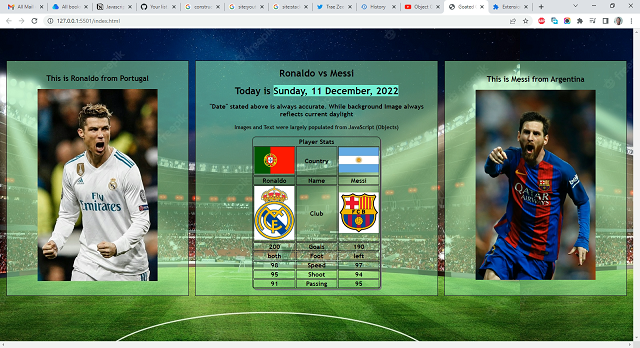
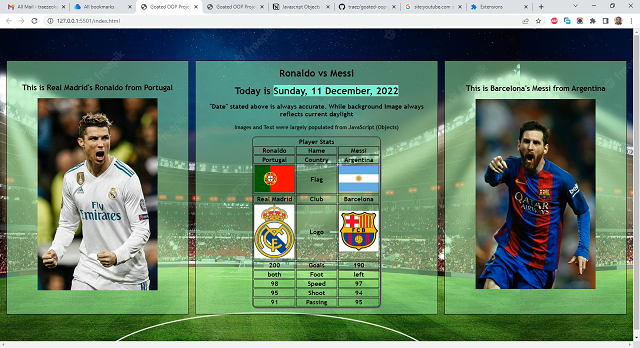
code major refactor

diff --git a/script.js b/script.js
@@ -1,40 +1,73 @@
 (function(){
 
-//Ronaldo object
-  let player = {
-  name: "Ronaldo",
-  playerImage: "images/ronaldo.jpg",
-  countryFlag: "images/portugal.png",
-  club: "images/realmadrid.png",
-  stadiumDay: "images/stadiumday.jpg",
-  stadiumNight: "images/stadiumnight.jpg",
-  goals: 200,
-  foot: "both",
-  speed: 98,
-  shoot: 95,
-  passing: 91,
-  sayHello() {
-    return `This is ${this.name} from Portugal`
+//Player Class
+  class Player {
+    constructor(pic, name, country, flag, club, logo, goals, foot, speed, shoot, passing) {
+      this.pic = pic;
+      this.name = name;
+      this.country = country;
+      this.flag = flag;
+      this.club = club;
+      this.logo = logo;
+      this.goals = goals;
+      this.foot = foot;
+      this.speed = speed;
+      this.shoot = shoot;
+      this.passing = passing;
+    }
+    sayHello() {
+      return `This is ${this.club}'s ${this.name} from ${this.country}`
+    }
   }
- }
 
- //Messi object
- let messi = {
-  name: "Messi",
-  playerImage: "images/messi.jpg",
-  countryFlag: "images/argentina.jpg",
-  club: "images/barcelonafc.png",
-  goals: 190,
-  foot: "left",
-  speed: 97,
-  shoot: 94,
-  passing: 95,
-  sayHello() {
-    return `This is ${this.name} from Argentina`
+//Ronaldo instance
+  let ronaldo = new Player("images/ronaldo.jpg", "Ronaldo", "Portugal", "images/portugal.png", "Real Madrid", "images/realmadrid.png", 200, "both", 98, 95, 91);
+
+//Messi instance
+let messi = new Player("images/messi.jpg", "Messi", "Argentina", "images/argentina.jpg", "Barcelona", "images/barcelonafc.png", 190, "left", 97, 94, 95);
+
+ //Ronaldo element population 
+ document.querySelector(".pic-left").setAttribute("src", ronaldo.pic);
+ document.querySelector(".name-left").textContent =  ronaldo.name;
+ document.querySelector(".country-left").textContent =  ronaldo.country;
+ document.querySelector(".flag-left").setAttribute("src", ronaldo.flag);
+ document.querySelector(".club-left").textContent =  ronaldo.club;
+ document.querySelector(".logo-left").setAttribute("src", ronaldo.logo);
+ document.querySelector(".goals-left").textContent =  ronaldo.goals;
+ document.querySelector(".foot-left").textContent =  ronaldo.foot;
+ document.querySelector(".speed-left").textContent =  ronaldo.speed;
+ document.querySelector(".shoot-left").textContent =  ronaldo.shoot;
+ document.querySelector(".passing-left").textContent =  ronaldo.passing;
+ document.querySelector(".hello-left").textContent =  ronaldo.sayHello();
+  
+//Messi element population 
+document.querySelector(".pic-right").setAttribute("src", messi.pic);
+document.querySelector(".name-right").textContent =  messi.name;
+document.querySelector(".country-right").textContent =  messi.country;
+document.querySelector(".flag-right").setAttribute("src", messi.flag);
+document.querySelector(".club-right").textContent =  messi.club;
+document.querySelector(".logo-right").setAttribute("src", messi.logo);
+document.querySelector(".goals-right").textContent =  messi.goals;
+document.querySelector(".foot-right").textContent =  messi.foot;
+document.querySelector(".speed-right").textContent =  messi.speed;
+document.querySelector(".shoot-right").textContent =  messi.shoot;
+document.querySelector(".passing-right").textContent =  messi.passing;
+document.querySelector(".hello-right").textContent =  messi.sayHello();
+ 
+//H1 element population
+document.querySelector("h1").textContent =  `${ronaldo.name} vs ${messi.name}`;
+
+//Stadium Class
+  class Stadium {
+    constructor(day, night){
+      this.day = day;
+      this.night = night;
+    }
   }
- }
 
- //Time and date variables
+  let elClassico = new Stadium("images/stadiumday.jpg", "images/stadiumnight.jpg");
+
+  //Time and date variables
  let day = new Date().getDate();
  let weekday = ['Sunday', 'Monday', 'Tuesday', 'Wednesday', 'Thursday', 'Friday', 'Saturday'][new Date().getDay()];
  let month = ['January',"February","March", "April", "May", "June", "July", "August", "September", "October", "November", "December"][new Date().getMonth()];
@@ -42,34 +75,11 @@
  let hour = new Date().getHours();
  document.querySelector(".calendar").textContent =  `${weekday}, ${day} ${month}, ${year}`;
 
- //background color decider
- if (hour > 5 && hour < 19) {
-  document.querySelector("body").style.backgroundImage = `url(${player.stadiumDay})`;
- } else {
-  document.querySelector("body").style.backgroundImage = `url(${player.stadiumNight})`;
- }
+  //background color decider
+  if (hour > 5 && hour < 19) {
+    document.querySelector("body").style.backgroundImage = `url(${elClassico.day})`;
+   } else {
+    document.querySelector("body").style.backgroundImage = `url(${elClassico.night})`;
+   }
 
- //element population Ronaldo
- document.querySelector(".hello-left").textContent =  player.sayHello();
- document.querySelector(".name-left").textContent =  player.name;
- document.querySelector(".pic-left").setAttribute("src", player.playerImage);
- document.querySelector(".country-left").setAttribute("src", player.countryFlag);
- document.querySelector(".club-left").setAttribute("src", player.club);
- document.querySelector(".goals-left").textContent =  player.goals;
- document.querySelector(".foot-left").textContent =  player.foot;
- document.querySelector(".speed-left").textContent =  player.speed;
- document.querySelector(".shoot-left").textContent =  player.shoot;
- document.querySelector(".passing-left").textContent =  player.passing;
-
-  //element population Messi
- document.querySelector(".hello-right").textContent =  messi.sayHello();
- document.querySelector(".name-right").textContent =  messi.name;
- document.querySelector(".pic-right").setAttribute("src", messi.playerImage);
- document.querySelector(".country-right").setAttribute("src", messi.countryFlag);
- document.querySelector(".club-right").setAttribute("src", messi.club);
- document.querySelector(".goals-right").textContent =  messi.goals;
- document.querySelector(".foot-right").textContent =  messi.foot;
- document.querySelector(".speed-right").textContent =  messi.speed;
- document.querySelector(".shoot-right").textContent =  messi.shoot;
- document.querySelector(".passing-right").textContent =  messi.passing;
 })();

diff --git a/index.html b/index.html
@@ -6,6 +6,9 @@
 <meta name="viewport" content="width=device-width, initial-scale=1.0" />
 <link rel="stylesheet" type="text/css" href="styles.css"/>
 </head>
+<!-- 
+Refactored code, making use of classes to make code more "DRY" (Don't Repeat Yourself) and give it a "KISS" (Keep It Simple, Stupid).
+-->
 <body>
 
     <section class="goatl">
@@ -15,7 +18,7 @@
 
     <section class="stats">
 
-        <h1>Ronaldo vs Messi</h1>
+        <h1></h1>
         <h2>Today is <span class="calendar"></span></h2>
         <h4>"Date" stated above is always accurate. While background Image always reflects current daylight</h4>
         <h5>Images and Text were largely populated from JavaScript (Objects)</h5>
@@ -25,20 +28,30 @@
                   <th colspan="3">Player Stats</th>
                 </tr>
                 <tr>
-                  <td><img class="country-left" src=""></td>
-                  <td>Country</td>
-                  <td><img class="country-right" src=""></td>
-                </tr>
-                  <tr>
                   <td class="name-left"></td>
                   <td>Name</td>
                   <td class="name-right"></td>
                 </tr>
                 <tr>
-                    <td><img class="club-left" src=""></td>
-                    <td>Club</td>
-                    <td><img class="club-right" src=""></td>
-                  </tr>
+                  <td class="country-left"></td>
+                  <td>Country</td>
+                  <td class="country-right"></td>
+                </tr>
+                <tr>
+                  <td><img class="flag-left" src=""></td>
+                  <td>Flag</td>
+                  <td><img class="flag-right" src=""></td>
+                </tr>
+                <tr>
+                  <td class="club-left"></td>
+                  <td>Club</td>
+                  <td class="club-right"></td>
+                </tr>
+                <tr>
+                  <td><img class="logo-left" src=""></td>
+                  <td>Logo</td>
+                  <td><img class="logo-right" src=""></td>
+                </tr>
                   <tr>
                   <td class="goals-left"></td>
                   <td>Goals</td>

diff --git a/styles.css b/styles.css
@@ -28,6 +28,9 @@ section{
   padding: 1rem;
   background-color: hsla(124, 78%, 78%, 0.53);
 }
+h1,h2,h3,h4,h5{
+  text-align: center;
+}
 .goatl{
   grid-area: left;
   display: flex;
@@ -38,6 +41,12 @@ section{
 }
 .pic-left{
   width: 300px;
+}
+.flag-left{
+  width: 100px;
+}
+.logo-left{
+  width: 100px;
 }
 .stats{
   grid-area: center;
@@ -69,12 +78,6 @@ td{
   text-align: center;
   font-weight: bold ;
 }
-.country-left{
-  width: 100px;
-}
-.club-left{
-  width: 100px;
-}
 .goatr{
   grid-area: right;
   display: flex;
@@ -86,9 +89,9 @@ td{
 .pic-right{
   width: 300px;
 }
-.country-right{
+.flag-right{
   width: 100px;
 }
-.club-right{
+.logo-right{
   width: 100px;
 }
